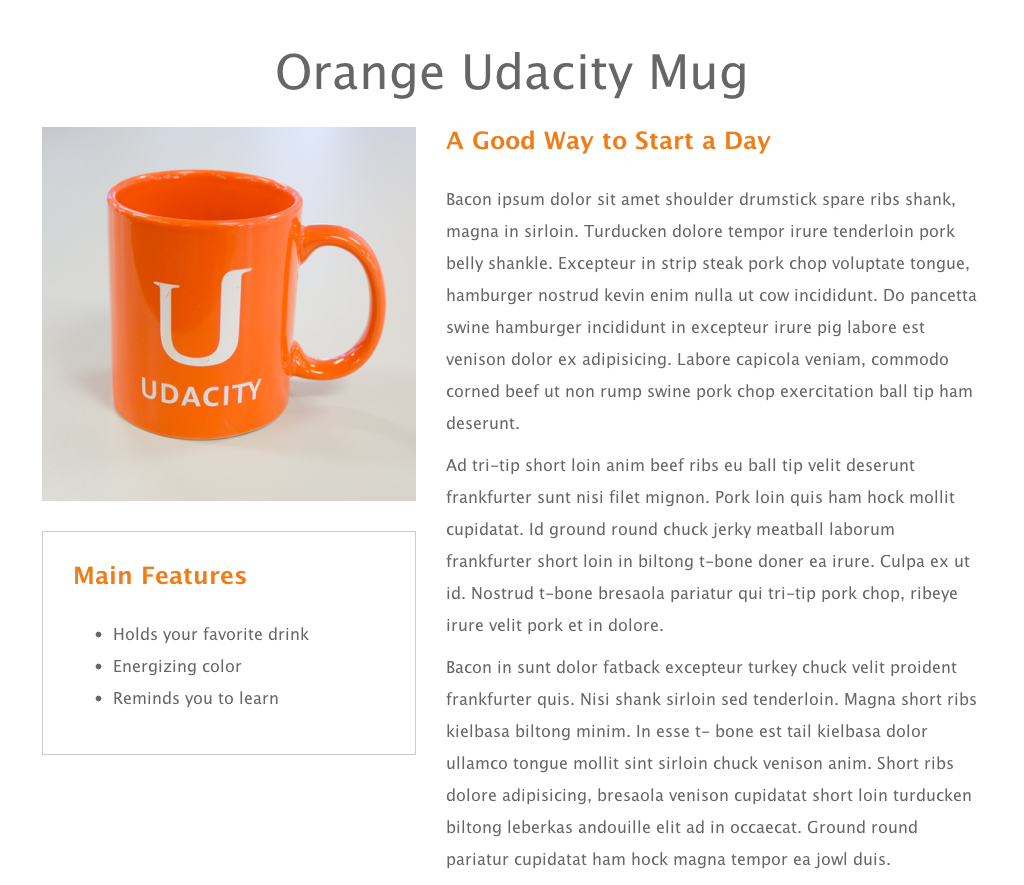
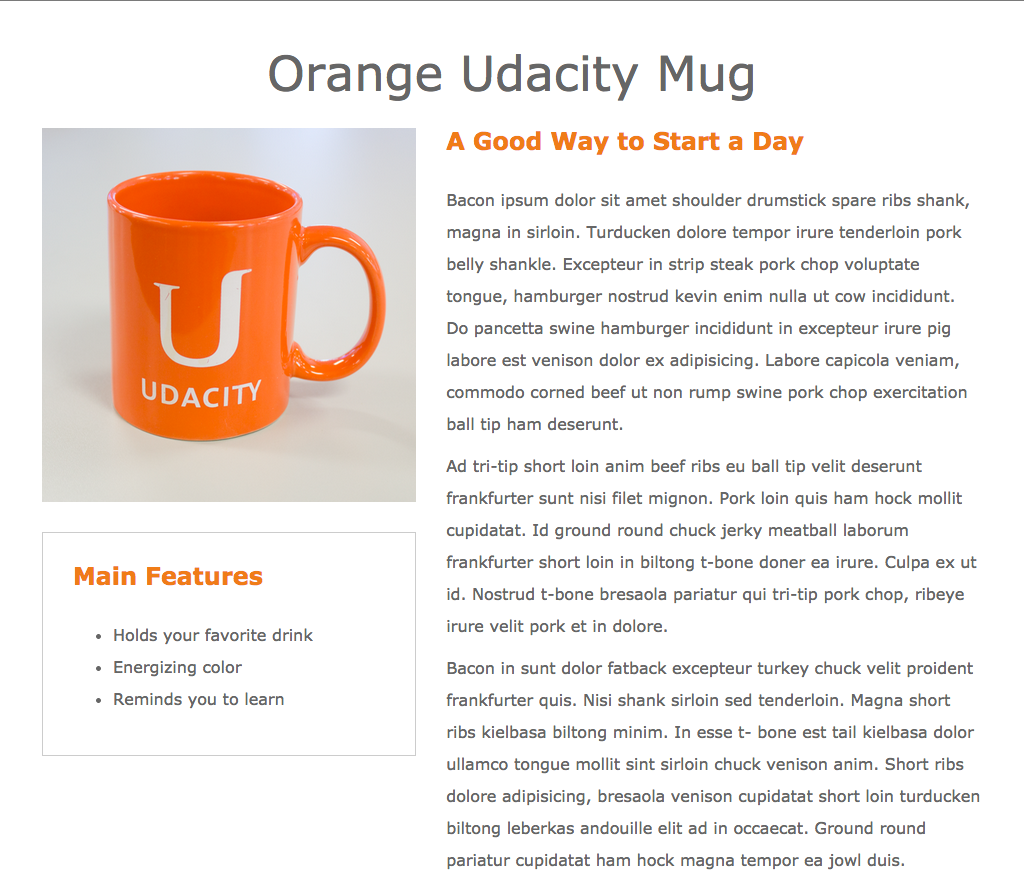
Further edits to margin and font sizes.

diff --git a/css/main.css b/css/main.css
@@ -3,6 +3,7 @@
     color: #666666;
     font-size: 16px;
     line-height: 200%;
+        max-width: 1024px;
 }
 
 .container {
@@ -10,7 +11,7 @@
     padding-left: 42px;
     padding-right: 46px;
     padding-bottom: 0px;
-    max-width: 1024px;
+
 }
 
 .orange {
@@ -19,7 +20,7 @@
 
 h1 {
     text-align: center;
-    font-size: 47px;
+    font-size: 48px;
     margin-top: 0px;
     margin-bottom: 30px;
 }
@@ -28,11 +29,13 @@ h2 {
     margin: 0px;
     font-size: 24px;
     margin-bottom: 30px;
+    font-weight: 700;
 }
 
 #features {
     border-style: solid;
     border-width: 1px;
+    border-color: #CCCCCC;
     margin-top: 30px;
     padding-top: 30px;
     padding-left: 32px;
@@ -40,14 +43,9 @@ h2 {
     margin-bottom: 30px;
 }
 
-#mug {
-    max-width: 375px;
-    max-height: 375px;
-}
-
 .mockup-overlay {
        top: 0;
        position: absolute;
        z-index: 10;
-       opacity: 0;
+       opacity: .0;
 }

diff --git a/index.html b/index.html
@@ -17,7 +17,7 @@
         </div>
         <div class="row">
             <div class="col-md-5">
-                <img src="images/mug.png" class="img-responsive" id="mug">
+                <img src="images/mug.png" class="img-responsive">
                 <div id="features">
                     <h2 class="orange">Main Features</h3>
                     <ul>
